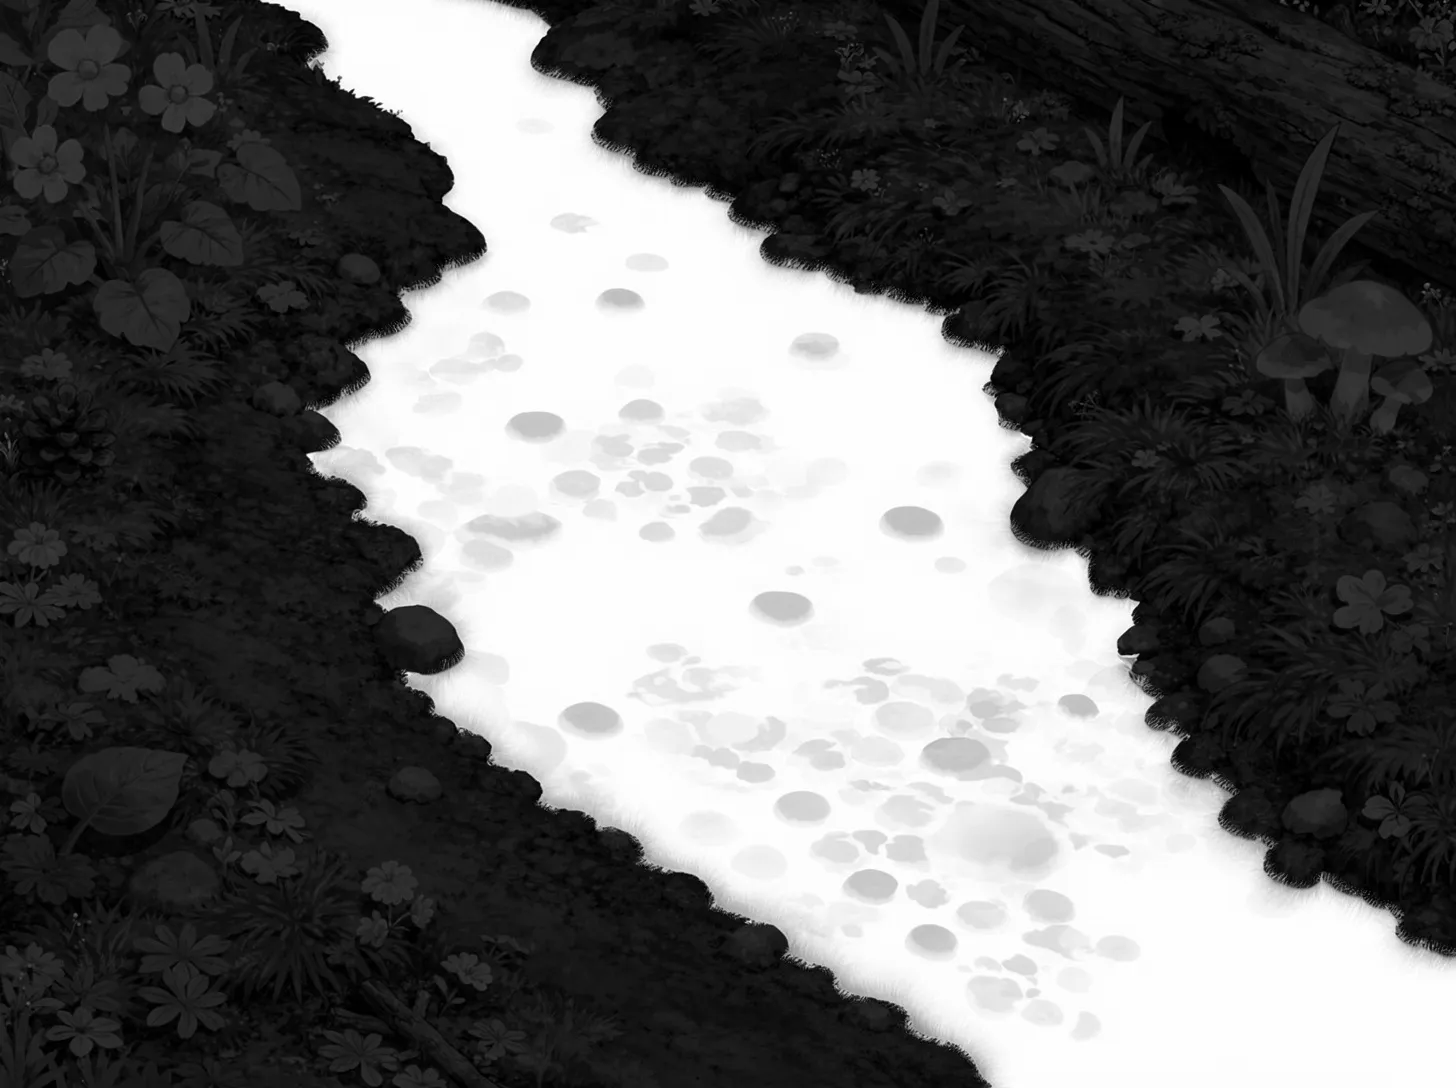
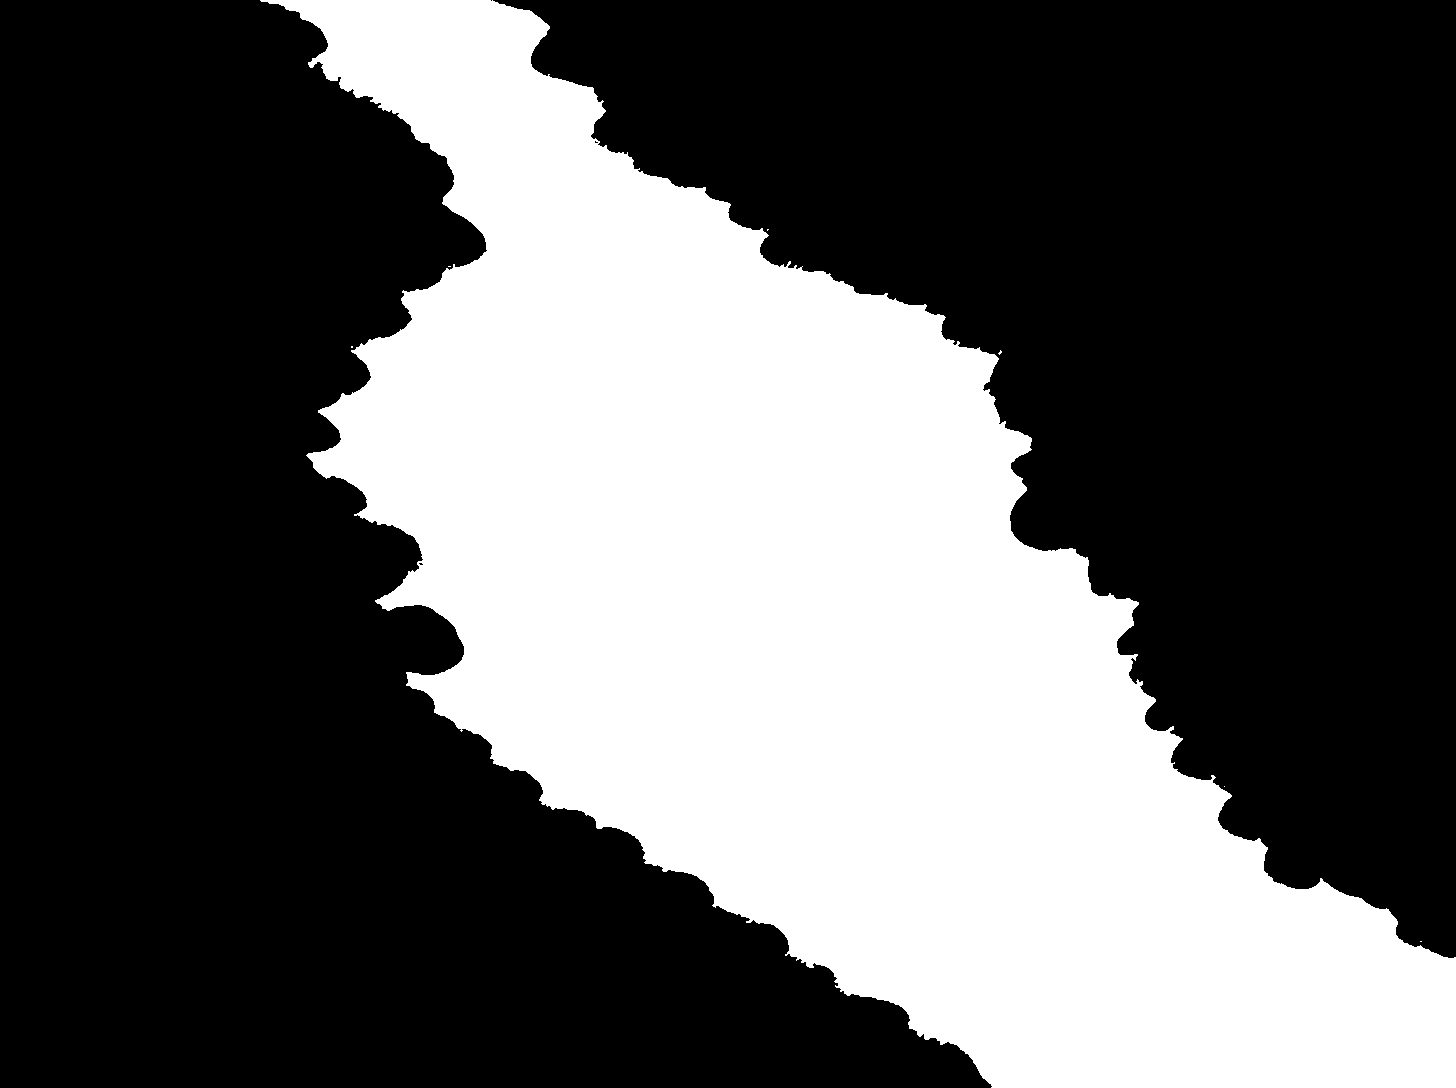
Make the stream mask actually binary, and read it from luma
The PNG was mode L with no alpha but the runtime keyed wet/dry off the
alpha channel, so every pixel decoded to A=255 and the mask voted "wet"
everywhere — the stream silhouette was effectively coming from the color
model alone. The file also had a wide gray edge halo (avg 209px of
midtones per row) so even a luma read would have been mushy.

Flatten the mask to {0,255} with a 3x3 majority cleanup, and switch both
mask sample sites in state.js to use luma thresholds (>=200 wet, <=32
dry) instead of alpha.

https://claude.ai/code/session_01XSczsWzNuNdN5SxzUZBRox

diff --git a/src/state.js b/src/state.js
@@ -98,9 +98,9 @@ export function initStreamColorModel(backgroundImage) {
 
       if (streamMask) {
         const m = (y * streamMask.width + x) * 4;
-        const a = streamMask.pixels[m + 3];
-        if (a >= 200) wet.push({ r, g, b });
-        else if (a <= 20) dry.push({ r, g, b });
+        const ml = 0.2126 * streamMask.pixels[m] + 0.7152 * streamMask.pixels[m + 1] + 0.0722 * streamMask.pixels[m + 2];
+        if (ml >= 200) wet.push({ r, g, b });
+        else if (ml <= 32) dry.push({ r, g, b });
       } else {
         if (isInStream(x, y)) wet.push({ r, g, b });
         else dry.push({ r, g, b });
@@ -129,13 +129,9 @@ export function initStreamColorModel(backgroundImage) {
       let maskVote = null;
       if (streamMask && x < streamMask.width && y < streamMask.height) {
         const m = (y * streamMask.width + x) * 4;
-        const mr = streamMask.pixels[m + 0];
-        const mg = streamMask.pixels[m + 1];
-        const mb = streamMask.pixels[m + 2];
-        const ma = streamMask.pixels[m + 3];
-        const luma = 0.2126 * mr + 0.7152 * mg + 0.0722 * mb;
-        if (ma >= 180) maskVote = true;
-        else if (ma <= 16 && luma < 32) maskVote = false;
+        const luma = 0.2126 * streamMask.pixels[m] + 0.7152 * streamMask.pixels[m + 1] + 0.0722 * streamMask.pixels[m + 2];
+        if (luma >= 200) maskVote = true;
+        else if (luma <= 32) maskVote = false;
       }
 
       const dWater = sqDistRgb(r, g, b, waterMean);
@@ -219,16 +215,11 @@ export function isInStream(x, y) {
     const ix = Math.max(0, Math.min(streamMask.width - 1, Math.round(x)));
     const iy = Math.max(0, Math.min(streamMask.height - 1, Math.round(y)));
     const i = (iy * streamMask.width + ix) * 4;
-    const r = streamMask.pixels[i + 0];
-    const g = streamMask.pixels[i + 1];
-    const b = streamMask.pixels[i + 2];
-    const a = streamMask.pixels[i + 3];
-    // Alpha is usually the most reliable mask channel. Color luma is kept as a
-    // weak extra check in case exported masks are near-transparent antialiased
-    // edges with visible RGB data.
-    const luma = 0.2126 * r + 0.7152 * g + 0.0722 * b;
-    if (a >= 180) maskVote = true;
-    else if (a <= 16 && luma < 32) maskVote = false;
+    // Mask is a grayscale PNG (white=wet, black=dry). Use luma as the vote;
+    // alpha is unreliable because L-mode PNGs decode to A=255 in canvas.
+    const luma = 0.2126 * streamMask.pixels[i] + 0.7152 * streamMask.pixels[i + 1] + 0.0722 * streamMask.pixels[i + 2];
+    if (luma >= 200) maskVote = true;
+    else if (luma <= 32) maskVote = false;
   }
 
   if (streamColorModel) {